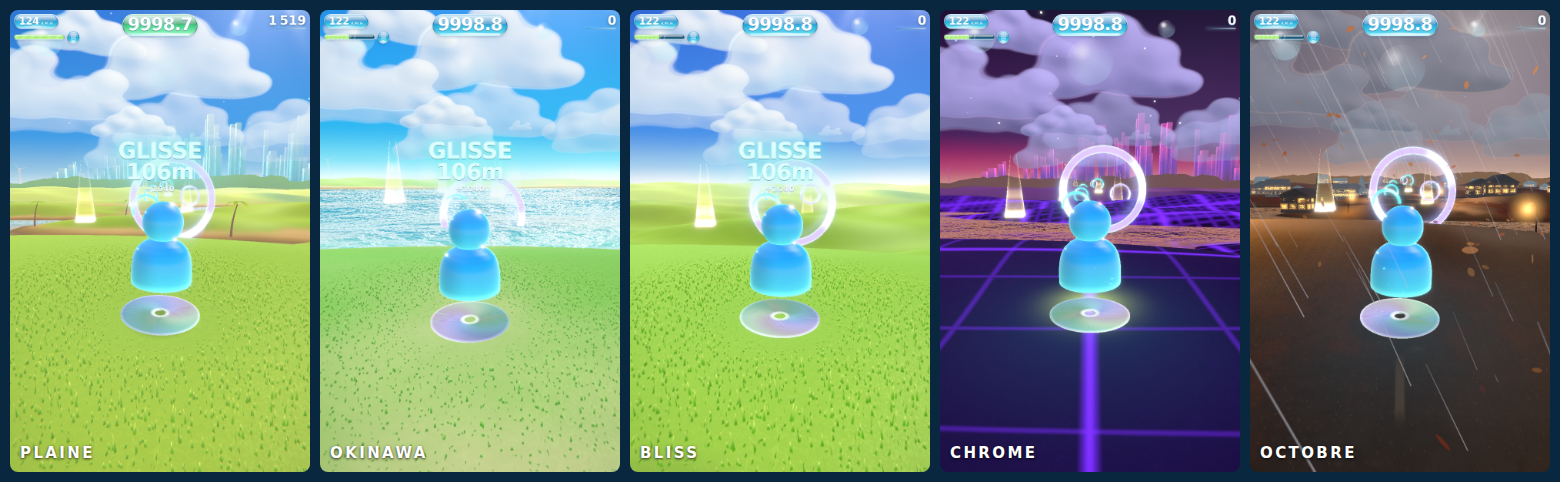
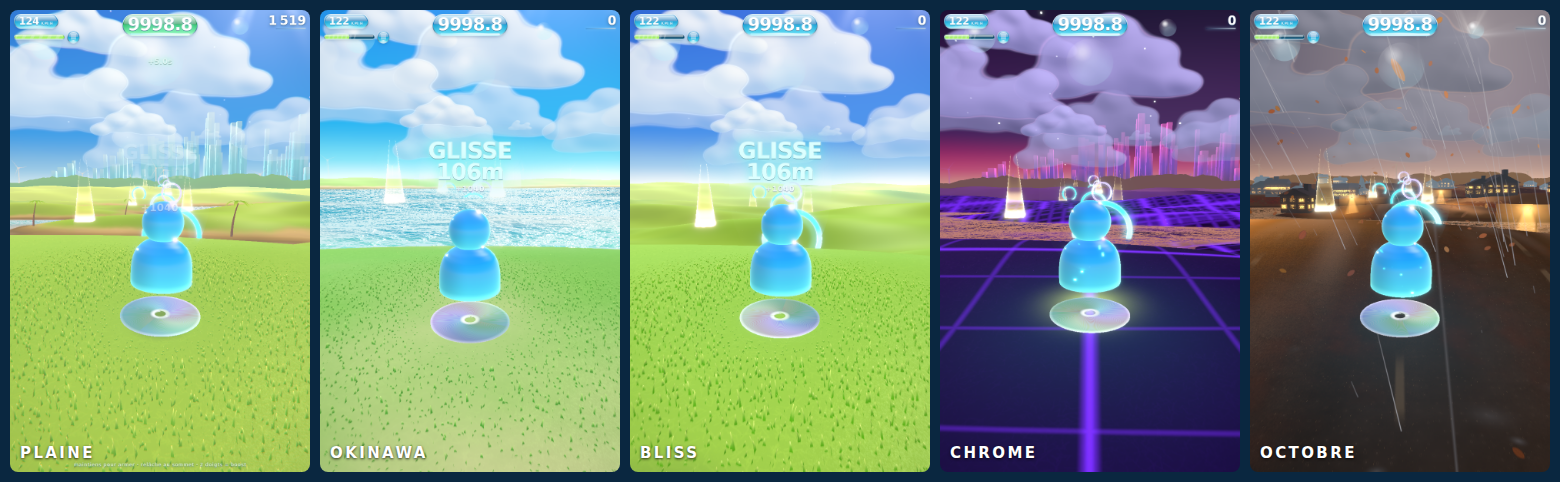
Polissage d octobre : la route cesse d etre une bande sombre
LA ROUTE EN AVAIT LA FORME ET RIEN D'AUTRE.

Un ruban gris uniforme qui occupait la moitie du cadre. Six termes l'en
sortent, et aucun ne coute plus de trois lignes :

- LES PASSAGES DE ROUES. Deux bandes plus sombres et plus lisses a un
  metre soixante-dix de l'axe : le caoutchouc polit le bitume et le
  noircit. C'est LE detail qui dit « route utilisee » plutot que « ruban
  gris », et il ne coute qu'une gaussienne. Les flaques les evitent, ce
  qui fait lire des ornieres plutot que des taches.
- LES FISSURES. Un RESEAU, pas des rayures : on prend la crete d'un bruit
  — la vallee de |fbm - 0.5| — donc des lignes qui se rejoignent et se
  ferment, comme une faience. Des traits paralleles auraient lu comme un
  motif.
- LA RIVE, posee exactement sur le bord que le masque de route utilise.
  Sans elle, l'oeil ne sait pas ou la chaussee s'arrete. D'ou townEdge(),
  expose pour que les deux ne puissent pas diverger.
- LES GRAVILLONS rejetes contre ce bord par le balayage.
- L'ACCOTEMENT, entre l'enrobe et l'herbe. L'enrobe s'arrete desormais NET
  (un metre trente au lieu de quatre metres cinquante) : une route sans
  bord n'est pas une route, c'est une tache sombre.
- LES FEUILLES PLAQUEES : sur le bitume elles sont plus sombres et
  collees, elles ont perdu leur relief.

Et la route a RETRECI, de vingt metres a treize. A la distance ou vit la
camera, une chaussee de vingt metres remplit tout le bas du cadre et le
[…]

diff --git a/src/world/Town.ts b/src/world/Town.ts
@@ -163,11 +163,38 @@ float townRowAt(float worldZ, vec2 org){
 // C'est la meme lecon que le masque de plage : la premiere version ne vivait
 // que dans le shader du sol, et l'herbe a continue de pousser au milieu de
 // l'asphalte. Une route sous un champ de brins n'est plus une route.
+
+// La demi-largeur de la chaussee. Exposee parce que le sol doit peindre sa
+// RIVE exactement dessus : une ligne de rive posee a peu pres au bon endroit
+// serait pire que pas de ligne du tout.
+float townEdge(vec2 wp){
+  // Six metres et demi de demi-chaussee, pas huit et demi : a la distance ou
+  // vit la camera, une route de vingt metres de large remplit tout le bas du
+  // cadre et le paysage se reduit a un aplat sombre. Une rue de lotissement
+  // fait treize metres, bas-cotes compris — et il faut que l'herbe et les
+  // feuilles ENCADRENT l'asphalte pour qu'on le lise comme une route.
+  return 6.6 + (fbm2(vec2(wp.y * 0.035, 3.1)) - 0.5) * 2.2;
+}
+
+// L'enrobe s'arrete NET, en un peu plus d'un metre. Le premier reglage
+// l'etalait sur quatre metres et demi : la route se diluait dans l'herbe, on ne
+// savait plus ou elle finissait, et une route sans bord n'est pas une route,
+// c'est une tache sombre. Ce qui adoucit la transition, c'est l'accotement.
 float townRoad(vec2 wp, float above, float town){
   if (town <= 0.004) return 0.0;
-  // Le bord n'est pas droit : un bas-cote ronge et un peu d'enrobe qui deborde.
-  float edge = 8.5 + (fbm2(vec2(wp.y * 0.035, 3.1)) - 0.5) * 3.0;
-  return (1.0 - smoothstep(edge, edge + 4.5, abs(wp.x))) * town
+  float e = townEdge(wp);
+  return (1.0 - smoothstep(e, e + 1.3, abs(wp.x))) * town
+       * smoothstep(-0.3, 0.5, above);
+}
+
+// L'ACCOTEMENT : gravier et terre battue, juste au-dela de l'enrobe. C'est lui
+// qui fait le passage entre le noir de la chaussee et le champ, et il n'est pas
+// decoratif — sans lui l'herbe pousse contre le bitume, ce qui n'arrive nulle
+// part sur une route entretenue.
+float townShoulder(vec2 wp, float above, float town){
+  if (town <= 0.004) return 0.0;
+  float d = abs(wp.x) - townEdge(wp);
+  return smoothstep(-0.7, 0.4, d) * (1.0 - smoothstep(1.0, 3.2, d)) * town
        * smoothstep(-0.3, 0.5, above);
 }
 #endif
@@ -249,6 +276,29 @@ function buildingGeometry(): BufferGeometry {
   quad([0, 1, RZ], [0, 1, -RZ], [-RO, 0, -RZ], [-RO, 0, RZ], 1);
   tri([-RO, 0, RZ], [RO, 0, RZ], [0, 1, RZ], 1);
   tri([RO, 0, -RZ], [-RO, 0, -RZ], [0, 1, -RZ], 1);
+
+  // --- 1.2 : LA CHEMINEE.
+  //
+  //     Un indice non entier, et ce n'est pas un bricolage : toutes les
+  //     comparaisons de partie sont des seuils (aPart < 1.5 = maison,
+  //     aPart < 0.5 = murs). Une cheminee a 1.2 est donc AUTOMATIQUEMENT mise a
+  //     l'echelle du toit et coloree comme lui, sans toucher a une seule des
+  //     conditions existantes. Elle garde quand meme son identite propre, ce
+  //     qui permet de la replier maison par maison — une cheminee sur toutes
+  //     les maisons ferait un lotissement de catalogue.
+  //
+  //     Elle vaut son cout a elle seule : c'est la seule chose qui casse la
+  //     symetrie d'un pignon, et une silhouette de maison sans rien qui
+  //     depasse lit comme une icone.
+  const cx = 0.19;
+  const cw = 0.075;
+  const cz = 0.11;
+  const CT = 1.55;
+  quad([cx + cw, 0.30, cz], [cx + cw, 0.30, -cz], [cx + cw, CT, -cz], [cx + cw, CT, cz], 1.2);
+  quad([cx - cw, 0.30, -cz], [cx - cw, 0.30, cz], [cx - cw, CT, cz], [cx - cw, CT, -cz], 1.2);
+  quad([cx - cw, 0.30, cz], [cx + cw, 0.30, cz], [cx + cw, CT, cz], [cx - cw, CT, cz], 1.2);
+  quad([cx + cw, 0.30, -cz], [cx - cw, 0.30, -cz], [cx - cw, CT, -cz], [cx + cw, CT, -cz], 1.2);
+  quad([cx - cw, CT, -cz], [cx - cw, CT, cz], [cx + cw, CT, cz], [cx + cw, CT, -cz], 1.2);
 
   // --- 2 : LE MAT, en metres. Un poteau, une potence, une lanterne.
   const PH = 5.6;
@@ -340,8 +390,14 @@ ${TOWN_GLSL}
           bool isLampPart = aPart > 1.5 && aPart < 3.5;
           bool isTreePart = aPart > 3.5;
           bool isHousePart = aPart < 1.5;
+          // Une maison sur deux a une cheminee. Le tirage se lit dans le z,
+          // comme tout le reste (cf. l'invariant en tete de TOWN_GLSL).
+          bool chimney = aPart > 1.1 && aPart < 1.3;
           bool keepPart = wantLamp ? isLampPart : wantTree ? isTreePart : isHousePart;
           if (!keepPart) { gl_Position = vec4(2.0, 2.0, 2.0, 1.0); return; }
+          if (chimney && hash21(vec2(z * 0.071, side * 12.7 + rank)) < 0.45) {
+            gl_Position = vec4(2.0, 2.0, 2.0, 1.0); return;
+          }
 
           vec2 wp;
           vec3 p = position;
@@ -530,12 +586,17 @@ ${RIDER_GLSL}
                 : uWall * 0.26;
               glow = lit;
             } else if (band) {
-              // LE DEBORDEMENT. C'est lui qui fait la lumiere : une fenetre
-              // allumee qui s'arrete net au bord de son cadre lit comme un
-              // autocollant colle sur un mur.
-              float b = smoothstep(0.50, 0.28, max(d2.x, d2.y));
-              c += uWindow * b * lit * 0.62;
-              glow = b * lit * 0.6;
+              // LE DEBORDEMENT, et il doit rester PRES de sa fenetre.
+              //
+              // C'est lui qui fait la lumiere — une fenetre allumee qui s'arrete
+              // net au bord de son cadre lit comme un autocollant — mais dose
+              // trop large il couvre la cellule entiere. Toutes les cellules
+              // d'une rangee s'allument alors ensemble, et la facade devient un
+              // RECTANGLE lumineux a bords francs : la bande de fenetres a
+              // exactement la forme d'une enseigne.
+              float b = smoothstep(0.40, 0.23, max(d2.x, d2.y));
+              c += uWindow * b * lit * 0.34;
+              glow = b * lit * 0.34;
             }
           } else if (vPart < 1.5) {
             // --- LE TOIT. Plus sombre que les murs, et MOUILLE : c'est la
@@ -641,11 +702,18 @@ ${TOWN_GLSL}
           vec3 right = nsafe(cross(vec3(0.0, 1.0, 0.0), fwd), vec3(1.0, 0.0, 0.0));
           vec3 up = cross(fwd, right);
 
-          // Le halo ENFLE sous la pluie : c'est l'eau en suspension qui diffuse
-          // la lumiere, et c'est le detail qui fait qu'un lampadaire sous
-          // l'averse ne ressemble pas a un lampadaire par temps sec.
-          float s = 2.6 + uWet * 2.4;
-          vec3 world = p + right * position.x * s + up * position.y * s;
+          // Le quad n'est plus centre sur la lanterne : il PEND sous elle.
+          //
+          // C'est ce qui permet d'y loger le FAISCEAU en plus du halo. Un
+          // lampadaire sous l'averse ne fait pas une pastille lumineuse, il
+          // plante un cone de lumiere dans la pluie — et ce cone est la moitie
+          // de ce qu'on vient chercher dans une rue mouillee le soir.
+          //
+          // Sa base passe SOUS le sol : le test de profondeur la coupe donc
+          // pile a la chaussee, gratuitement, et le faisceau semble s'y poser.
+          float W = 5.0 + uWet * 2.4;
+          float H = 7.4;
+          vec3 world = p + right * position.x * W + up * (position.y - 0.42) * H;
 
           vFade = uDensity * smoothstep(230.0, 90.0, dist) * smoothstep(2.0, 6.0, dist);
           vUv = uv;
@@ -659,13 +727,37 @@ ${TOWN_GLSL}
         varying float vFade;
         void main(){
           if (vFade < 0.004) discard;
-          float r = length(vUv - 0.5) * 2.0;
-          if (r > 1.0) discard;
-          // Coeur dur, halo long. Un seul lobe donne une pastille ; c'est
-          // l'ECART entre les deux exposants qui fait une lampe.
-          float a = pow(max(1.0 - r, 1e-4), 5.0) * 0.9
-                  + pow(max(1.0 - r, 1e-4), 1.6) * (0.16 + uWet * 0.22);
-          a *= vFade;
+          float u = (vUv.x - 0.5) * 2.0;
+          float v = vUv.y;
+
+          // --- LE BULBE. Coeur dur, halo long : un seul lobe donne une
+          //     pastille, c'est l'ECART entre les deux exposants qui fait une
+          //     lampe. Il est centre sur la lanterne, aux neuf dixiemes du quad.
+          float r = length(vec2(u * 1.25, (v - 0.92) * 3.4));
+          float bulb = pow(max(1.0 - clamp(r, 0.0, 1.0), 1e-4), 5.0) * 0.95
+                     + pow(max(1.0 - clamp(r * 0.52, 0.0, 1.0), 1e-4), 1.7)
+                       * (0.15 + uWet * 0.20);
+
+          // --- LE FAISCEAU, et il n'existe QUE parce qu'il pleut.
+          //
+          //     Ce qu'on voit d'un cone de lumiere, ce n'est jamais la lumiere :
+          //     c'est ce qu'elle TRAVERSE. Par temps sec il n'y a rien dans
+          //     l'air et le faisceau est invisible ; sous l'averse il se dessine
+          //     en entier. Il est donc multiplie par la pluie, sans exception.
+          float halfW = mix(0.92, 0.07, v);
+          float cone = 1.0 - smoothstep(halfW * 0.42, halfW, abs(u));
+          cone *= smoothstep(0.0, 0.26, v);          // il meurt en bas
+          cone *= 1.0 - smoothstep(0.85, 0.94, v);   // et s'arrete sous la lanterne
+          cone *= mix(0.28, 1.0, v);                 // plus dense pres de la source
+
+          // Le quad ne doit JAMAIS se voir. En additif, une valeur infime mais
+          // non nulle sur toute sa surface eclaircit uniformement le ciel
+          // derriere lui, et on lit un RECTANGLE clair autour de la lampe. Deux
+          // precautions : le faisceau s'eteint franchement sur les bords, et
+          // tout ce qui reste sous le seuil est rejete.
+          cone *= 1.0 - smoothstep(0.78, 1.0, abs(u));
+          float a = (bulb + cone * uWet * 0.34) * vFade;
+          if (a < 0.004) discard;
           // Additif : l'alpha de sortie vaut 1 et toute la modulation vit dans
           // le RVB, sinon elle est comptee deux fois et la lueur sort terne.
           gl_FragColor = vec4(uWindow * a * 2.6, 1.0);

diff --git a/src/world/Ground.ts b/src/world/Ground.ts
@@ -521,21 +521,71 @@ ${TOWN_GLSL}
           //     l'herbe une tache de lumiere chaude se noie, sur du noir mouille
           //     elle brule.
           float road = townRoad(vWorld.xz, above, uTown);
+          // Les passages de roues sont releves ICI parce que les flaques en ont
+          // besoin plus bas : l'eau ne stagne pas la ou les pneus passent.
+          float wheel = 0.0;
           {
+            // --- L'ACCOTEMENT, avant la chaussee : gravier, terre battue, et le
+            //     gravillon qui deborde. Il occupe la bande ou l'herbe ne
+            //     pousse plus mais ou l'enrobe n'a pas encore commence.
+            float berm = townShoulder(vWorld.xz, above, uTown);
+            if (berm > 0.003) {
+              // Du gravier MOUILLE, donc sombre et gris. Tire trop clair, il
+              // lit comme du sable et l'oeil voit une plage le long de la
+              // route — on l'a eu, et c'etait la premiere chose qu'on
+              // remarquait dans le cadre.
+              vec3 dirt = mix(uSandWet, uSandDry, 0.30) * 0.40;
+              dirt *= 0.66 + fbm3(vWorld.xz * 3.4) * 0.66 + fbm2(vWorld.xz * 0.5) * 0.22;
+              c = mix(c, dirt, berm * 0.88);
+            }
+
             if (road > 0.003) {
-              vec3 tar = vec3(0.055, 0.052, 0.058);
-              // Le grain de l'enrobe : sans lui c'est du velours noir.
-              tar *= 0.72 + fbm3(vWorld.xz * 2.6) * 0.55 + fbm2(vWorld.xz * 0.35) * 0.22;
-              // La bande blanche au milieu, usee et discontinue.
-              // La bande blanche : ETROITE, DISCONTINUE et USEE. Trop large
-              // ou trop propre, elle passe au premier plan comme une barre
-              // grise posee sous le personnage — elle attire l'oeil au centre
-              // du cadre, exactement la ou il ne doit pas rester.
+              // --- L'ENROBE, sur trois echelles.
+              //
+              //     Le gravillon (fin), la reprise d'enrobe (large), et le
+              //     LISSAGE DES PASSAGES DE ROUES. Ce dernier est le detail qui
+              //     dit « route utilisee » plutot que « ruban gris » : le
+              //     caoutchouc polit le bitume et le noircit sur deux bandes,
+              //     a un metre et demi de l'axe. Il ne coute qu'une gaussienne.
+              vec3 tar = vec3(0.052, 0.049, 0.056);
+              tar *= 0.66 + fbm3(vWorld.xz * 2.6) * 0.55 + fbm2(vWorld.xz * 0.28) * 0.30;
+              wheel = exp(-pow((abs(vWorld.x) - 1.7) * 1.45, 2.0));
+              tar *= 1.0 - wheel * 0.24;
+
+              // --- LES FISSURES. Un RESEAU, pas des rayures : on prend la
+              //     crete d'un bruit — la vallee de |fbm - 0.5| — ce qui donne
+              //     des lignes qui se rejoignent et se ferment, comme une
+              //     faience. Des traits paralleles auraient lu comme un motif.
+              //     Par plaques, et seulement au premier plan : au loin le
+              //     reseau passe sous le pixel et ne produit que du bruit.
+              float crack = 1.0 - smoothstep(0.0, 0.05, abs(fbm2(vWorld.xz * 0.55) - 0.5));
+              crack *= smoothstep(0.38, 0.72, fbm2(vWorld.xz * 0.085)) * detail;
+              tar *= 1.0 - crack * 0.55;
+
+              // --- LES GRAVILLONS DU BORD. Le balayage rejette le gravier
+              //     contre la rive : une bande de points clairs, uniquement la
+              //     ou la chaussee touche l'accotement. C'est le detail qui
+              //     empeche le bord de lire comme une decoupe.
+              float kerbBand = smoothstep(0.45, 0.95, abs(vWorld.x) / max(townEdge(vWorld.xz), 0.001));
+              float grit = smoothstep(0.86, 0.99, fbm2(vWorld.xz * 7.0)) * kerbBand * detail;
+              tar = mix(tar, vec3(0.17, 0.16, 0.14), grit * 0.7);
+
+              // --- LA BANDE AXIALE : ETROITE, DISCONTINUE et USEE. Trop large
+              //     ou trop propre, elle passe au premier plan comme une barre
+              //     grise posee sous le personnage — elle attire l'oeil au
+              //     centre du cadre, exactement la ou il ne doit pas rester.
               float lane = (1.0 - smoothstep(0.07, 0.15, abs(vWorld.x)))
                          * step(0.62, fract(vWorld.z * 0.14))
                          * smoothstep(0.30, 0.62, fbm2(vWorld.xz * 0.7));
-              tar = mix(tar, vec3(0.20, 0.19, 0.17), lane * 0.80);
-              c = mix(c, tar, road * 0.94);
+              // --- ET LA RIVE, continue, posee EXACTEMENT sur le bord que
+              //     townRoad utilise. C'est elle qui donne sa largeur a la
+              //     route : sans elle, l'oeil ne sait pas ou la chaussee finit.
+              float ex = townEdge(vWorld.xz) - 0.55;
+              float rive = (1.0 - smoothstep(0.09, 0.19, abs(abs(vWorld.x) - ex)))
+                         * smoothstep(0.32, 0.68, fbm2(vWorld.xz * 0.9));
+              tar = mix(tar, vec3(0.26, 0.25, 0.22), max(lane, rive) * 0.78);
+
+              c = mix(c, tar, road * 0.96);
             }
           }
 
@@ -572,7 +622,7 @@ ${TOWN_GLSL}
             //   tapis recouvrait l'asphalte et la route disparaissait sous les
             //   feuilles — on avait fait une route pour ne pas la voir.
             mat = clamp(mat, 0.0, 1.0) * uLitter * (1.0 - sand * 0.6)
-                * smoothstep(-0.2, 0.8, above) * (1.0 - road * 0.70);
+                * smoothstep(-0.2, 0.8, above) * (1.0 - road * 0.55);
 
             if (mat > 0.003) {
               //   Un tapis pietine n'a pas la couleur d'une feuille en vol : il
@@ -580,6 +630,10 @@ ${TOWN_GLSL}
               //   couleurs, assombries — c'est ce qui fait qu'on reconnait la
               //   feuille qui vient de tomber dans celle qui est au sol.
               vec3 litter = mix(uLeafB, uLeafA, smoothstep(0.38, 0.80, speck)) * 0.70;
+              //   Une feuille plaquee sur du bitume mouille est plus SOMBRE et
+              //   plus collee qu'une feuille dans l'herbe : elle a perdu son
+              //   relief. Sans ce terme, le tapis flotte au-dessus de la route.
+              litter *= 1.0 - road * 0.42;
               //   Le grain, au premier plan seulement : sans lui c'est une
               //   tache de couleur, avec lui c'est un tas de feuilles.
               litter *= 0.84 + fbm3(vWorld.xz * 5.5) * 0.34 * detail;
@@ -625,8 +679,17 @@ ${TOWN_GLSL}
             // infiltre pas. C'est la que les flaques doivent etre, et c'est la
             // qu'elles servent — une flaque sur du noir renvoie le halo des
             // lampadaires, une flaque dans un pre ne renvoie que du gris.
-            pool = max(pool, road * uWet
-                    * smoothstep(0.42, 0.72, fbm2(vWorld.xz * 0.12 + 3.3)));
+            //   Sur la route, elles sont ETIREES DANS SON AXE : l'eau suit le
+            //   devers et les ornieres, elle ne fait pas des ronds. Un bruit
+            //   ecrase quatre fois en z suffit a le dire.
+            //   Sur la route, elles sont ETIREES DANS SON AXE : l'eau suit le
+            //   devers et les ornieres, elle ne fait pas des ronds. Un bruit
+            //   ecrase quatre fois en z suffit a le dire.
+            //   Et elle ne stagne PAS dans les passages de roues : c'est
+            //   justement la que les pneus la chassent, et ce vide entre deux
+            //   flaques est ce qui fait lire des ornieres plutot que des taches.
+            pool = max(pool, road * uWet * (1.0 - wheel * 0.75)
+                    * smoothstep(0.40, 0.70, fbm2(vec2(vWorld.x * 0.30, vWorld.z * 0.075) + 3.3)));
 
             if (pool > 0.003) {
               //   Une flaque n'est pas une tache sombre, c'est un MIROIR : elle
@@ -635,7 +698,12 @@ ${TOWN_GLSL}
               //   la fait lire comme de l'eau et non comme de la boue.
               vec3 mirror = mix(uDayFill, uHorizon, 0.35);
               float pf = pow(max(1.0 - clamp(dot(N, V), 0.0, 1.0), 1e-4), 3.2);
-              vec3 pc = mix(c * 0.30, mirror, clamp(0.16 + pf * 1.25, 0.0, 0.92));
+              //   Sur l'asphalte la flaque est un VRAI miroir : le sol qu'elle
+              //   recouvre est presque noir, donc tout ce qu'on y voit vient du
+              //   ciel. Dans l'herbe elle reste plus discrete — il y a de la
+              //   matiere claire dessous qui transparait.
+              vec3 pc = mix(c * 0.30, mirror,
+                            clamp(0.16 + pf * (1.25 + road * 0.9), 0.0, 0.95));
 
               //   LES IMPACTS. Ce sont eux qui disent que l'averse est EN COURS :
               //   une flaque lisse est une flaque d'apres la pluie. Ils
@@ -742,7 +810,7 @@ ${TOWN_GLSL}
           //     Il prend la couleur du remplissage du ciel, comme la goutte
           //     elle-meme : un voile gris fixe sous un ciel de braise serait
           //     la meme faute que le reflet de l'eau teinte deux fois.
-          c = mix(c, uDayFill * 1.06, smoothstep(0.06, 0.80, f) * uWet * 0.34);
+          c = mix(c, uDayFill * 1.06, smoothstep(0.06, 0.80, f) * uWet * 0.40);
 
           // Contact net avec le ciel.
           c = mix(c, uHorizon, smoothstep(0.94, 1.0, f));

diff --git a/src/world/GrassBlades.ts b/src/world/GrassBlades.ts
@@ -203,7 +203,10 @@ ${TOWN_GLSL}
           // la meme lecon que le masque de plage : la premiere version de la
           // route ne vivait que dans le shader du sol, et l'herbe a continue de
           // pousser au milieu de l'asphalte.
-          float tar = townRoad(wp, above, uTown);
+          // La chaussee ET son accotement : rien ne pousse ni sur l'enrobe ni
+          // dans le gravier.
+          float tar = max(townRoad(wp, above, uTown),
+                          townShoulder(wp, above, uTown) * 0.85);
           float hgt = (0.11 + r1 * 0.11 + step(0.87, r2) * 0.15)
                     * fade * dry * uDensity * (1.0 - tar * 0.96);
           float v = uv.y;

diff --git a/docs/01-ART-DIRECTION.md b/docs/01-ART-DIRECTION.md
@@ -1196,6 +1196,55 @@ et fassent un quartier — et des maisons volontairement **plus grandes que
 nature**, exactement comme les tours de la ville de cristal font cent mètres de
 haut.
 
+#### Ce qui fait qu'une route n'est plus « une bande sombre »
+
+Le premier jet en avait la forme et rien d'autre : un ruban gris uniforme qui
+occupait la moitié du cadre. Six termes l'ont sortie de là, et aucun ne coûte
+plus de trois lignes :
+
+- **Les passages de roues.** Deux bandes plus sombres et plus lisses à un mètre
+  soixante-dix de l'axe — le caoutchouc polit le bitume et le noircit. C'est
+  *le* détail qui dit « route utilisée » plutôt que « ruban gris », et il ne
+  coûte qu'une gaussienne. Les flaques les évitent, ce qui fait lire des
+  ornières plutôt que des taches.
+- **Les fissures.** Un **réseau**, pas des rayures : on prend la crête d'un
+  bruit — la vallée de `|fbm − 0.5|` — ce qui donne des lignes qui se rejoignent
+  et se ferment, comme une faïence. Des traits parallèles auraient lu comme un
+  motif.
+- **La rive**, posée exactement sur le bord que le masque de route utilise.
+  Sans elle, l'œil ne sait pas où la chaussée s'arrête.
+- **Les gravillons** rejetés contre ce bord par le balayage.
+- **L'accotement** : une bande de gravier mouillé entre l'enrobe et l'herbe.
+  Tiré trop clair il lit comme du **sable**, et on voit une plage le long de la
+  route — c'est arrivé, et c'était la première chose qu'on remarquait.
+- **Les feuilles plaquées** : sur le bitume elles sont plus sombres et collées,
+  elles ont perdu leur relief. Sans ce terme le tapis flotte au-dessus de la
+  route.
+
+Et la route a **rétréci**, de vingt mètres à treize. À la distance où vit la
+caméra, une chaussée de vingt mètres remplit tout le bas du cadre et le paysage
+se réduit à un aplat sombre. Il faut que l'herbe et les feuilles **encadrent**
+l'asphalte pour qu'on le lise comme une route.
+
+#### Le faisceau du lampadaire n'existe que parce qu'il pleut
+
+Ce qu'on voit d'un cône de lumière, ce n'est jamais la lumière : c'est ce
+qu'elle **traverse**. Par temps sec il n'y a rien dans l'air et le faisceau est
+invisible ; sous l'averse il se dessine en entier. Il est donc multiplié par la
+pluie, sans exception.
+
+Le quad qui le porte ne pend plus centré sur la lanterne mais **sous** elle, et
+sa base passe sous le sol : le test de profondeur la coupe pile à la chaussée,
+gratuitement, et le faisceau semble s'y poser.
+
+Deux pièges d'additif au passage, tous deux vus à l'image. Le quad ne doit
+**jamais** se voir : une valeur infime mais non nulle sur toute sa surface
+éclaircit uniformément le ciel derrière lui et on lit un rectangle clair autour
+de la lampe — d'où un seuil de rejet explicite. Et le **débordement des
+fenêtres** doit rester près de sa fenêtre : dosé trop large il couvre la cellule
+entière, toutes les cellules d'une rangée s'allument ensemble, et la façade
+devient un rectangle lumineux à bords francs — une enseigne, pas une maison.
+
 #### La route, et les deux leçons qu'elle a coûtées
 
 Des maisons plantées dans un pré ne sont pas un lotissement, ce sont des maisons
